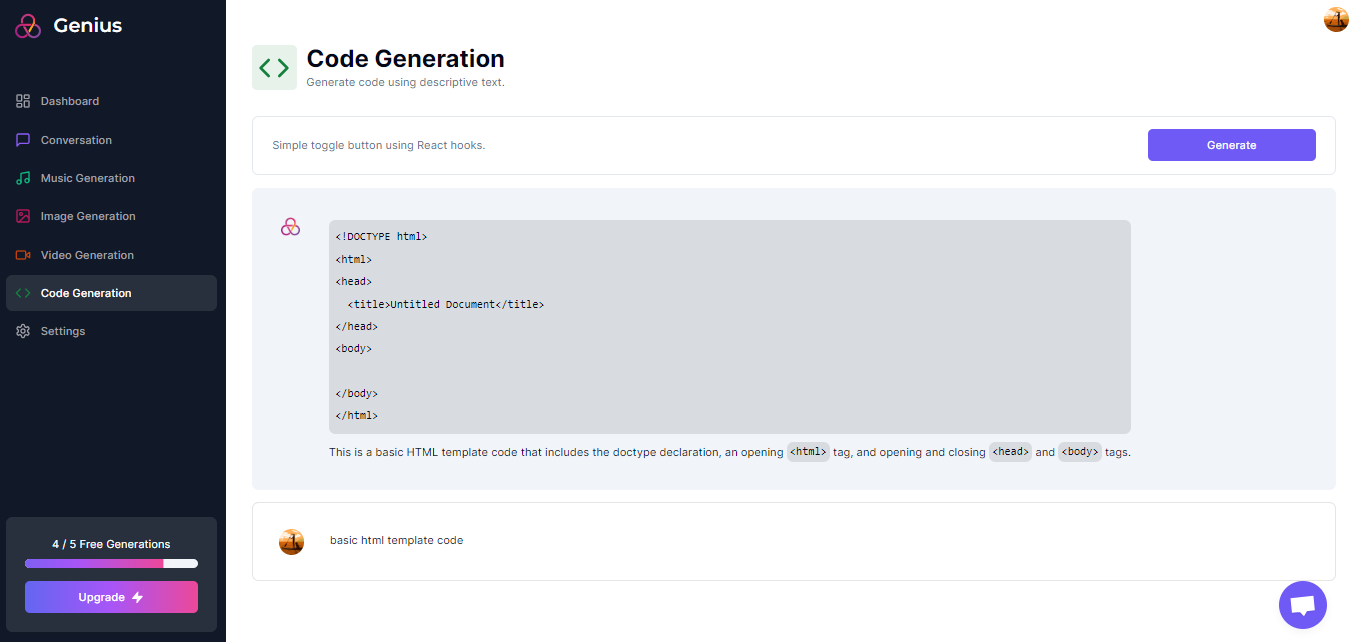
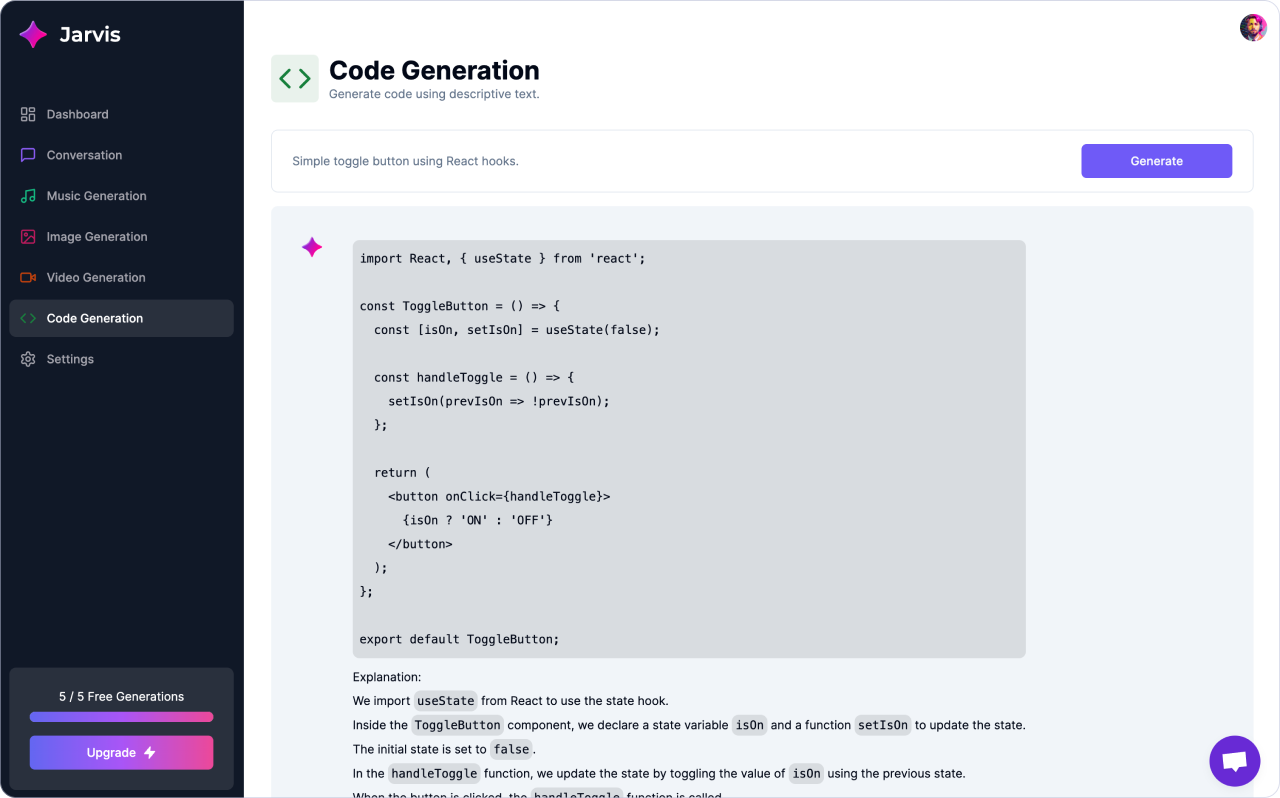
Update Project Images

diff --git a/README.md b/README.md
@@ -4,6 +4,8 @@ Complete AI Tools (Chatbot, Image Generation, Music Generation, Video Generation
 
 <a href="https://aftabrehan.com/portfolio/modern-saas-ai-platform"><img src="/.github/images/thumbnail.png" alt="project-thumbnail"/></a>
 
+#### [Live Preview](https://jarvis-wex.vercel.app)
+
 ## Features
 
 - Tailwind design
@@ -137,7 +139,9 @@ DATABASE_URL="mysql://<username>:<password>@<host>:<port>/<database_name>?ssl-mo
 
 ## Screenshots:
 
-![Modern UI/UX](/.github/images/main-page.png 'Modern UI/UX')
+![Modern UI/UX](/.github/images/main-image.png 'Modern UI/UX')
+
+![Dashboard](/.github/images/dashboard-page.png 'Dashboard')
 
 ![Conversation Generation](/.github/images/coversation-page.png 'Conversation Generation')
 
@@ -145,7 +149,7 @@ DATABASE_URL="mysql://<username>:<password>@<host>:<port>/<database_name>?ssl-mo
 
 ![Image Generation](/.github/images/image-page.png 'Image Generation')
 
-![Code Generation](/.github/images/image-page.png 'Image Generation')
+![Code Generation](/.github/images/code-page.png 'Code Generation')
 
 ![Video Generation](/.github/images/video-page.png 'Video Generation')
 
